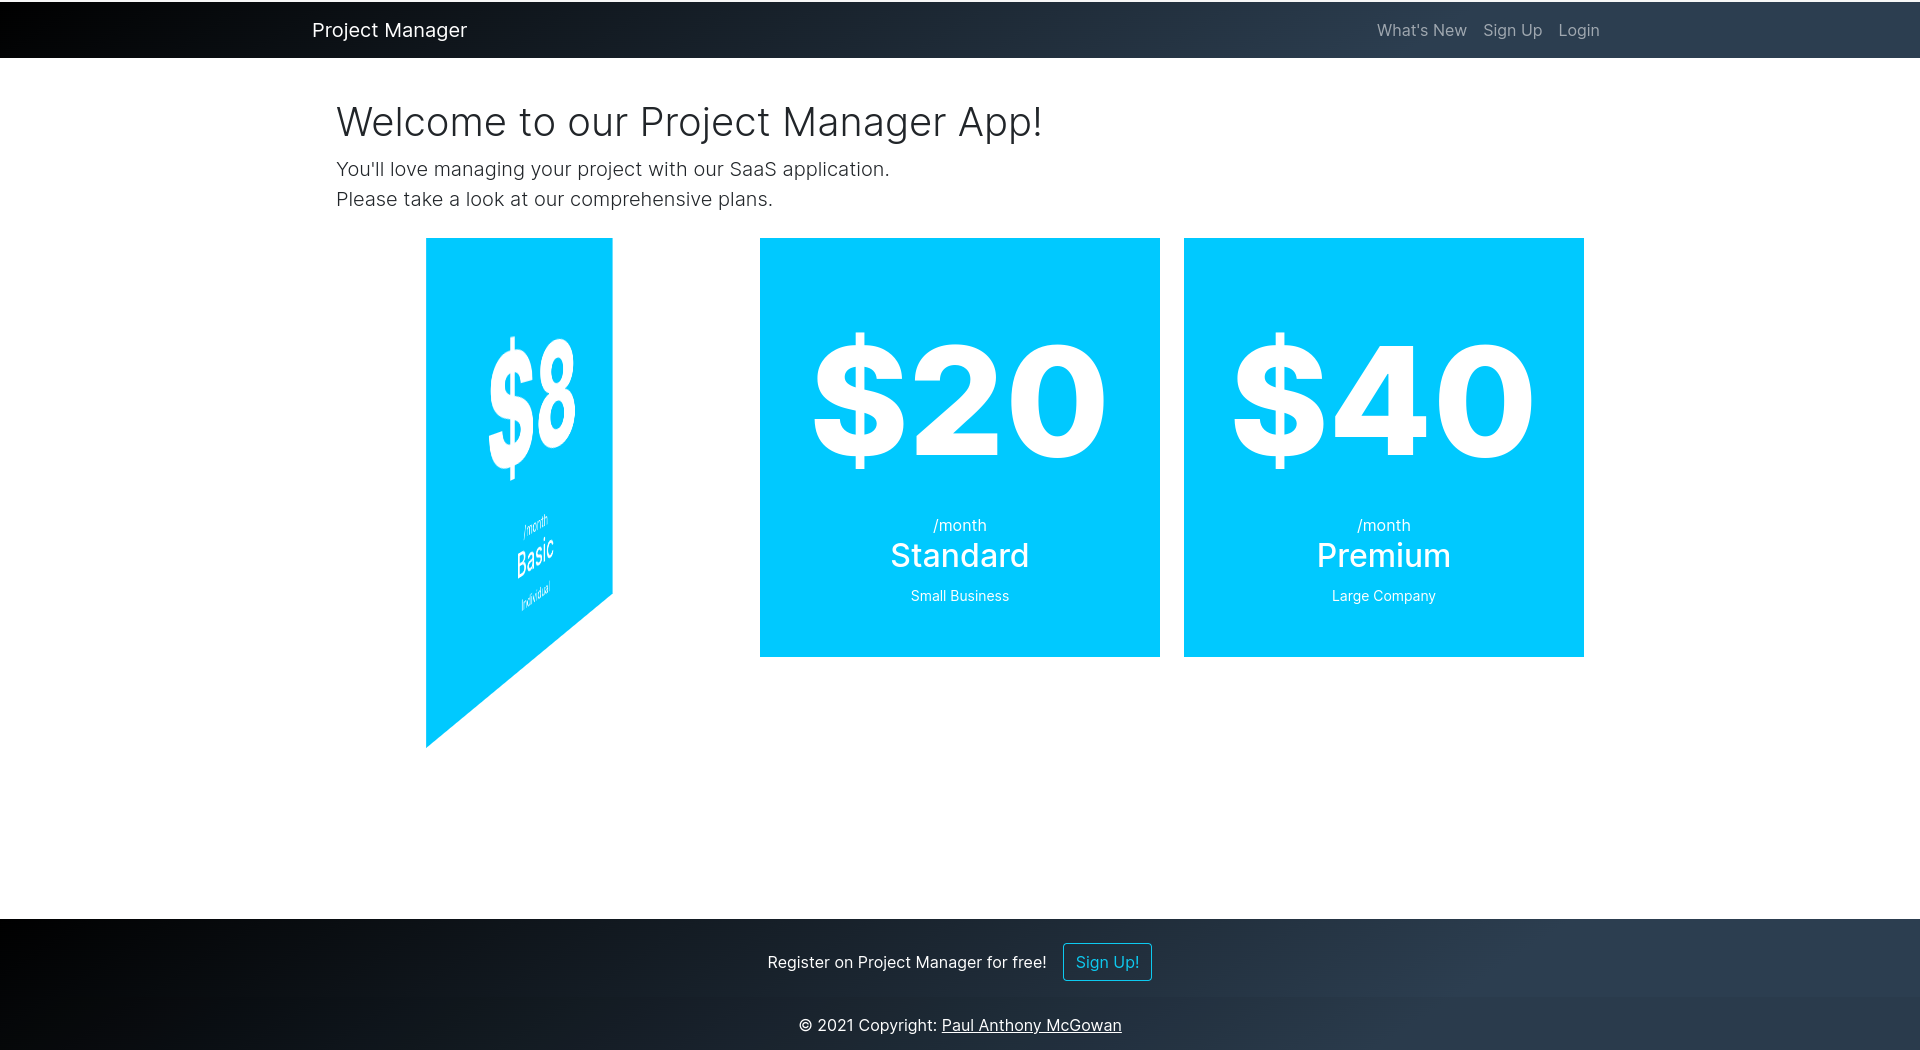
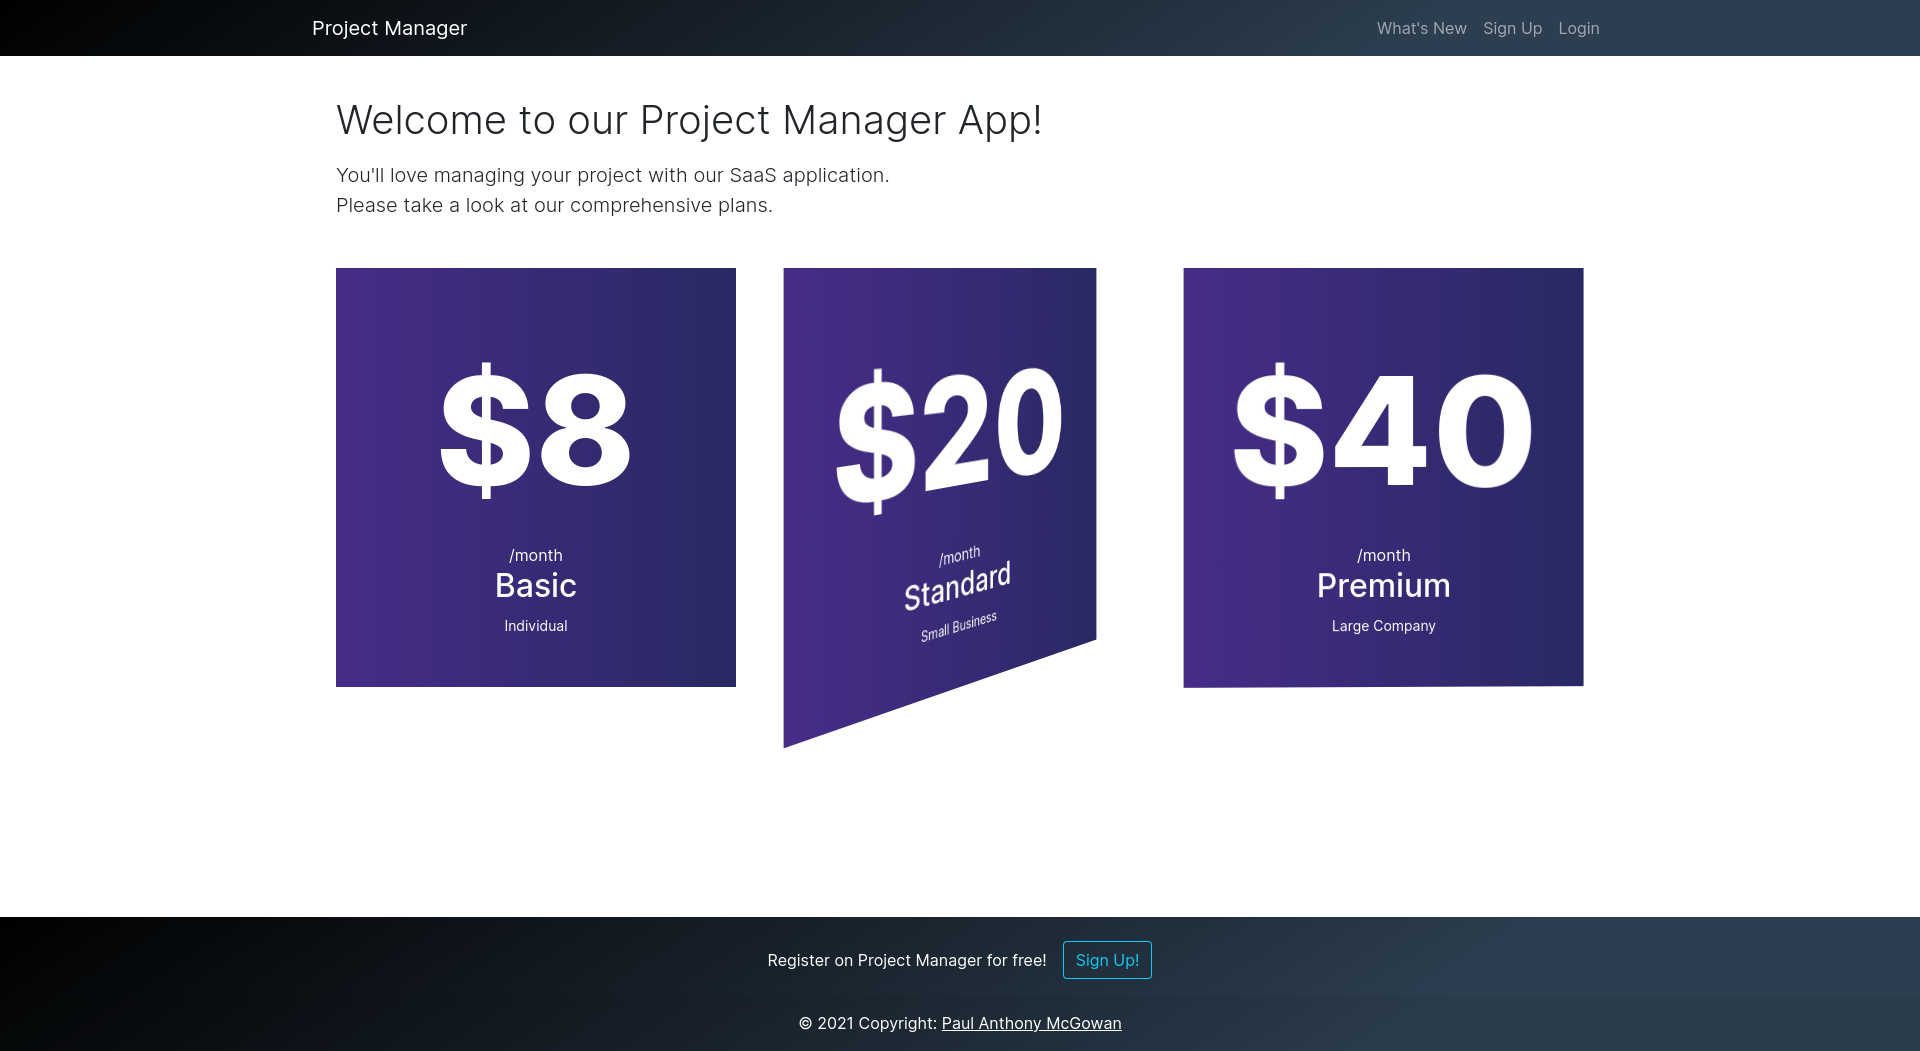
Update SS

diff --git a/app/assets/stylesheets/application.bootstrap.scss b/app/assets/stylesheets/application.bootstrap.scss
@@ -13,10 +13,10 @@ body > .alert {
 // Homepage
 
 .header {
-  background:#00C9FF;
+  background: #472C88;
 }
 .bi {
-  color:#00C9FF;
+  background: #472C88;
 }
 
 .price {
@@ -60,7 +60,7 @@ body > .alert {
 
 /* Style the front side (fallback if image is missing) */
 .flip-card-front {
-  background-color: #00C9FF;
+  background: linear-gradient(to right, #472C88, #282963);
   color: white;
   height: auto;
   padding:50px 0px;
